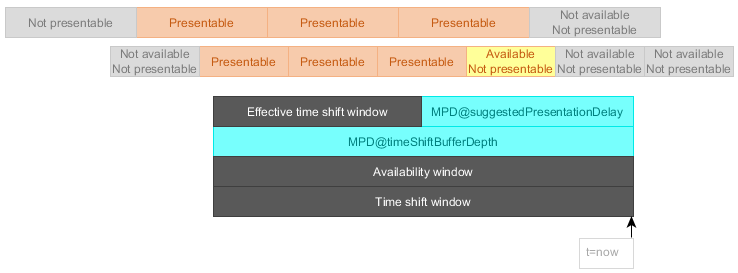
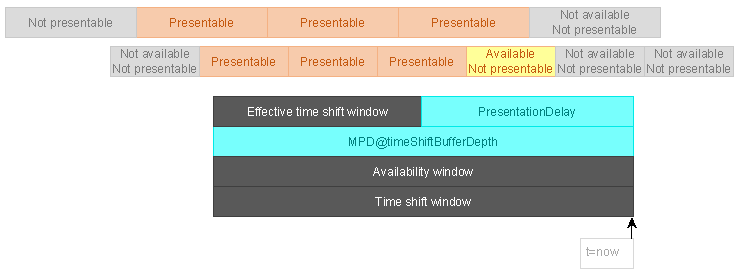
MPD@sPD clarifications

diff --git a/DASH-IF-IOP.bs.md b/DASH-IF-IOP.bs.md
@@ -765,15 +765,17 @@ Clients SHALL NOT allow seeking into regions of the time shift window that are n
 
 ### Presentation delay ### {#timing-delay}
 
-Issue: This needs more work.
-
 There is a natural conflict between the [=availability window=] and the [=time shift window=]. It is legal for a client to present [=media segments=] as soon as they overlap the [=time shift window=], yet such [=media segments=] might not yet be [=available=].
 
 Furthermore, the delay between [=media segments=] entering the [=time shift window=] and becoming [=available=] might be different for different [=representations=] that use different segment durations. This difference may also change over time if a [=representation=] does not use a constant segment duration.
 
-The `MPD@suggestedPresentationDelay` attribute pushes the effective end point of the [=time shift window=] into the past to account for this effect and defines the <dfn>effective time shift window</dfn> - a range of the [=time shift window=] within which [=media segments=] can be expected to be available.
+Clients SHALL calculate a suitable presentation delay to ensure that the [=media segments=] it schedules for playback are [=available=] and that there is sufficient time to download them once they become [=available=]. In essence, the presentation delay decreases the [=time shift window=], creating an <dfn>effective time shift window</dfn> with a reduced duration.
 
-The effective time shift window is the time span from the start of the time shift window to `now - MPD@suggestedPresentationDelay`.
+Services MAY define the `MPD@suggestedPresentationDelay` attribute to provide a suggested presentation delay. Clients SHOULD use `MPD@suggestedPresentationDelay` when provided, ignoring the calculated value.
+
+Note: As different clients might use different algorithms for calculating the presentation delay, providing `MPD@suggestedPresentationDelay` enables services to roughly synchronize the playback start position of clients.
+
+The effective time shift window is the time span from the start of the time shift window to `now - PresentationDelay`.
 
 <figure>
 	<img src="Images/Timing/WindowInteractions.png" />
@@ -781,8 +783,6 @@ The effective time shift window is the time span from the start of the time shif
 </figure>
 
 Clients SHALL constrain seeking to the [=effective time shift window=]. Clients SHALL NOT attempt to present [=media segments=] that fall entirely outside the [=effective time shift window=].
-
-Services SHALL provide a suitable value for `MPD@suggestedPresentationDelay` to ensure that [=media segments=] that overlap the [=effective time shift window=] are [=available=].
 
 ### MPD updates ### {#timing-mpd-updates}
 
